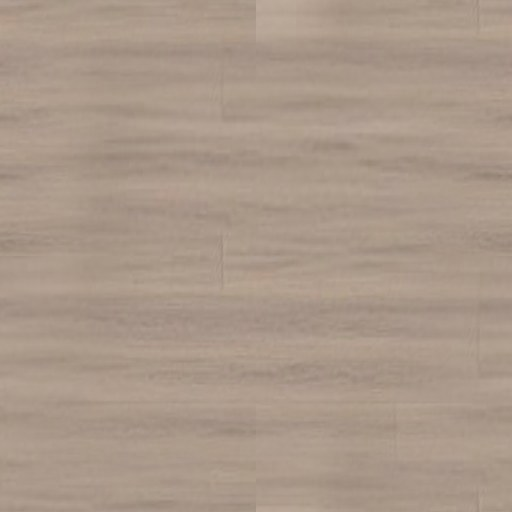
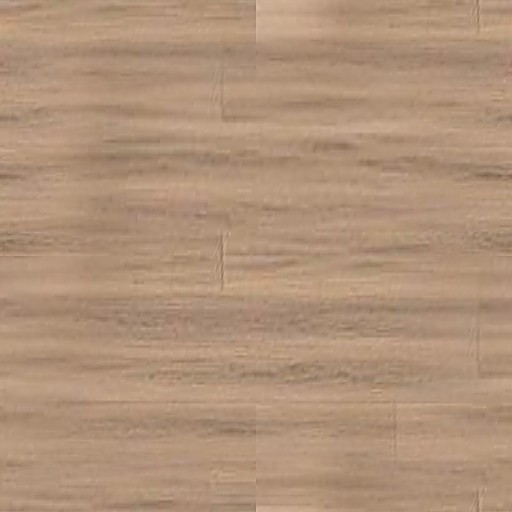
v14s12: interior unlit photo wallpaper+oak floor, no sun, hide wall/floor finish controls

diff --git a/v14/app.js b/v14/app.js
@@ -2,7 +2,7 @@ import * as THREE from 'three';
 import { OrbitControls } from 'three/addons/controls/OrbitControls.js';
 import { RoomEnvironment } from 'three/addons/environments/RoomEnvironment.js';
 import { RoundedBoxGeometry } from 'three/addons/geometries/RoundedBoxGeometry.js';
-import { CATALOG, RULES, ARTS } from './catalog.js?v=v14s11';
+import { CATALOG, RULES, ARTS } from './catalog.js?v=v14s12';
 
 const $ = id => document.getElementById(id);
 const MM = 0.001;
@@ -272,6 +272,7 @@ function setWallCol(m, c) { const col = new THREE.Color(c); m.color.copy(col).mu
 const NSTR = { brick: 7, stone: 7, slats: 6, woodp: 3, conc2: 2.2, beige: 2.6, koroed: 3, trav: 2 };
 const PHW = { brick: ['painted_brick', 1.04, 1.6], beige: ['beige_wall_001', 2.4, 1, 1.1], lime: ['white_plaster_02', 2.2, 1] };
 function wallMat(sd) { const IN = S.interior != null, v = IN ? 'intp' : finVar(), ph = IN ? [sd ? 'int_side' : 'int_paper', 1.3, 0.3, 1.05] : PHW[v];
+  if (IN) { const m = new THREE.MeshBasicMaterial({ map: tex(ph[0] + '_diff', true, (1 / ph[1]).toFixed(4)), toneMapped: false }); m.userData = { flat: true }; return m; }
   if (ph) { const rp = (1 / ph[1]).toFixed(4), sunM = S.room.shP === 'sun', m = new THREE.MeshStandardMaterial({ map: tex(ph[0] + '_diff', true, rp), emissiveMap: tex(ph[0] + '_diff', true, rp), normalMap: tex(ph[0] + '_nor_gl', false, rp), normalScale: new THREE.Vector2(ph[2], ph[2]), roughnessMap: tex(ph[0] + '_rough', false, rp), roughness: 1, metalness: 0, envMapIntensity: 0.35, toneMapped: false });
     const gn = ph[3] || 1, lf = v === 'brick'; m.userData = lf ? { wall: true, kd: 0.52, ke: 0.52 } : { wall: true, kd: (sunM ? 0.6 : 0.66) * gn, ke: (sunM ? 0.36 : 0.38) * gn }; if (lf) m.roughness = 0.85; setWallCol(m, IN ? '#f2f9ff' : S.wall); return m; }
   const t = finishTex(v).clone(); t.needsUpdate = true; const k = FINK[v] || 0.9; t.repeat.set(1 / k, 1 / k); const n = normalTex(v, NSTR[v] || 1.4).clone(); n.needsUpdate = true; n.repeat.copy(t.repeat);
@@ -688,7 +689,7 @@ function buildRoom() {
   const floorM = ST ? new THREE.ShadowMaterial({ opacity: 0 }) : (fm0 => fm0.isMeshStandardMaterial ? new THREE.MeshLambertMaterial({ color: fm0.color, map: fm0.map, normalMap: fm0.normalMap, normalScale: fm0.normalScale, userData: { floor: true } }) : fm0)(floorMat()); // matte floor: no glare
   // floor laid from the corner: tiles and parquet at 45 deg, laminate along the main wall (real scale, see FLOORS)
   window.__IC = cl ? left : cr ? right : F.x0; window.__BC = F.x0 + backW / 2; const fc = cl ? left : cr ? right : F.x0, FD = FLOORS[S.floor] || FLOORS.oak, fRot = FD[4] ? Math.PI / 4 : 0;
-  const fl = new THREE.Mesh(new THREE.PlaneGeometry(60, 60), floorM); fl.rotation.set(-Math.PI / 2, 0, fRot); fl.position.set(fc, 0, 0); fl.receiveShadow = !ST; fl.userData.floorM = true; room.add(fl);
+  const fl = new THREE.Mesh(new THREE.PlaneGeometry(60, 60), floorM); fl.rotation.set(-Math.PI / 2, 0, fRot); fl.position.set(fc, 0, 0); fl.receiveShadow = !ST; fl.userData.floorM = true; room.add(fl); if (S.interior != null && !ST) { fl.material = new THREE.MeshBasicMaterial({ map: floorM.map, toneMapped: false }); const fs = new THREE.Mesh(fl.geometry, new THREE.ShadowMaterial({ opacity: 0.18 })); fs.rotation.copy(fl.rotation); fs.position.set(fc, 0.0008, 0); fs.receiveShadow = true; room.add(fs); }
   const FJ = FLOORS[S.floor] && FLOORS[S.floor][3];
   if (!ST && FJ) { const jt = jointTex(S.floor).clone(); jt.needsUpdate = true; jt.repeat.set(60 / FJ[0], 60 / FJ[1]); const j = new THREE.Mesh(new THREE.PlaneGeometry(60, 60), new THREE.MeshBasicMaterial({ map: jt, transparent: true, depthWrite: false, polygonOffset: true, polygonOffsetFactor: -1, polygonOffsetUnits: -1 })); j.rotation.set(-Math.PI / 2, 0, fRot); j.position.set(fc, 0.0005, 0); room.add(j); }
   const ops = ST ? [] : openingsList(F, CH), WH = CH + 0.03, bk = new THREE.Group(); room.add(bk);
@@ -1165,7 +1166,7 @@ renderer.setAnimationLoop(() => { aspectGuard(); if (orb.on) applyCam(); else { 
 
 // ---------- interiors (v14): room photos; corner = photo point (cx, fy) in 0..1 ----------
 function setInterior(i) { const R = S.room; if (i == null) { if (S.interior != null) { const P = S.__intPrev || {}; R.shP = P.shP; S.preset = P.preset; delete S.__intPrev; S.interior = null; } return; }
-  if (S.interior == null) S.__intPrev = { shP: R.shP, preset: S.preset }; S.interior = i; S.studio = false; S.studioL = false; R.shP = 'sun'; S.preset = 'warm'; if (photo) $('photoOff').onclick(); setBg(); rebuild(); }
+  if (S.interior == null) S.__intPrev = { shP: R.shP, preset: S.preset }; S.interior = i; S.studio = false; S.studioL = false; R.shP = 'soft'; S.preset = 'neutral'; if (photo) $('photoOff').onclick(); setBg(); rebuild(); }
 // ---------- photo ----------
 let photo = null, photoImg = null;
 $('photo').onchange = e => {
@@ -1890,7 +1891,7 @@ const drawWallPick = colorPicker($('wallPick'), () => S.wall, liveWall, TONES);
 const BGT = ['#ffffff', '#f6f4f0', '#efece7', '#e9e6e0', '#e4e7ea', '#ddd8cf', '#d4d9d2', '#cfd6de', '#e8ded3', '#c9c6c0', '#8f8b86', '#2b2b2b'];
 const drawBgPick = colorPicker($('bgPick'), () => S.bg || '#e2ded7', (c, fin) => { S.bg = c; setBg(); if (fin) { localStorage.setItem('gs14_auto', JSON.stringify(S)); pushHist(); } }, BGT);
 function renderDeco() {
-  const st = !!S.studio, R = S.room; $('dRoom').classList.toggle('hide', st); $('dStudio').classList.toggle('hide', !st);
+  const st = !!S.studio, R = S.room; $('dRoom').classList.toggle('hide', st); $('dWallF').classList.toggle('hide', S.interior != null); $('dStudio').classList.toggle('hide', !st);
   document.querySelectorAll('[data-dt]').forEach(b => b.classList.toggle('on', b.dataset.dt === 'interior' ? S.interior != null : S.interior == null && (b.dataset.dt === 'studio') === (st || !!S.studioL)));
   const fin = S.wallFin || 'paint', fv = finVar();
   $('finVars').style.gridTemplateColumns = `repeat(${evenCols(FINS[fin].length)},1fr)`; $('finBtns').innerHTML = [['paint', 'Краска'], ['plaster', 'Штукатурка'], ['relief', 'Рельеф'], ['paper', 'Обои']].map(([k, t]) => `<button data-fin="${k}" class="${fin === k ? 'on' : ''}">${t}</button>`).join('');

diff --git a/v14/index.html b/v14/index.html
@@ -2,7 +2,7 @@
 <meta http-equiv="Cache-Control" content="no-cache, no-store, must-revalidate"><meta http-equiv="Pragma" content="no-cache"><meta http-equiv="Expires" content="0"><meta charset="utf-8"><meta name="viewport" content="width=device-width,initial-scale=1,maximum-scale=1">
 <link rel="icon" href="data:,"><title>Конструктор гардеробной ТИТАН GS</title>
 <link rel="preconnect" href="https://fonts.googleapis.com"><link rel="preconnect" href="https://fonts.gstatic.com" crossorigin><link href="https://fonts.googleapis.com/css2?family=Inter:wght@400;500;700;800&family=Manrope:wght@400;500;600;700;800&family=Montserrat:wght@400;500;700;800&family=Playfair+Display:wght@500;600;700&display=swap" rel="stylesheet">
-<link rel="stylesheet" href="style.css?v=v14s11">
+<link rel="stylesheet" href="style.css?v=v14s12">
 <script type="importmap">{"imports":{"three":"https://cdn.jsdelivr.net/npm/three@0.160.0/build/three.module.js","three/addons/":"https://cdn.jsdelivr.net/npm/three@0.160.0/examples/jsm/"}}</script>
 </head><body>
 <div id="topbar"><div class="seg" id="szV"></div><button id="mirrorBtn" title="Отзеркалить всю конструкцию">⇄<span class="mtx"> Зеркально</span></button><button id="fxBtn" class="snd" title="Эффект" aria-label="Эффект"><svg viewBox="0 0 24 24" fill="none" stroke="currentColor" stroke-width="1.7" stroke-linecap="round"><path d="M12 3v3M12 18v3M3 12h3M18 12h3M5.6 5.6l2.1 2.1M16.3 16.3l2.1 2.1M5.6 18.4l2.1-2.1M16.3 7.7l2.1-2.1"/><circle cx="12" cy="12" r="2.6"/></svg></button><button id="lensBtn" class="snd" title="Камера: Обычная" aria-label="Камера"><svg viewBox="0 0 24 24" fill="none" stroke="currentColor" stroke-width="1.7"><circle cx="12" cy="12" r="8"/><circle class="l2" cx="12" cy="12" r="4"/><path class="l3" d="M12 4v3M12 17v3M4 12h3M17 12h3"/></svg></button><button id="sndBtn" class="snd" title="Звук" aria-label="Звук"><svg viewBox="0 0 24 24" fill="none" stroke="currentColor" stroke-width="1.7" stroke-linecap="round" stroke-linejoin="round"><path d="M4 9.5h3.2L12 5.5v13l-4.8-4H4z"/><path class="w1" d="M15.5 9.2a4 4 0 0 1 0 5.6"/><path class="w2" d="M18.2 6.8a7.4 7.4 0 0 1 0 10.4"/><path class="mx" d="M16 9.5l5 5M21 9.5l-5 5"/></svg></button><button id="moreBtn" title="Сохранить, загрузить, ссылка, шаблоны, снимки">⋯</button>
@@ -50,9 +50,10 @@
 <div class="sub light"><h4>Свет и тени</h4><div class="szlab">Тень</div><div class="sz" id="shPBtns"></div><label>Свет из окна<select id="winL"><option value="off">Выкл</option><option value="wall">На стену</option><option value="floor">На пол</option><option value="both">Оба</option></select></label><div class="szlab">Блики на металле</div><div class="sz" id="glMBtns"></div></div>
 <div class="row2 hide"><label>Цвет системы<select id="metal"><option value="white">Белый металлик (RAL 9016)</option><option value="silver">Серебристый (RAL 9006)</option><option value="black">Черный (RAL 9005)</option></select></label><label>Цвет штанги<select id="rodC"><option value="chrome">Хром металлик</option><option value="white">Белая</option><option value="black">Черный</option></select></label></div>
 <div id="dRoom">
+<div id="dWallF">
 <div class="szlab">Цвет стен</div><div id="wallPick"></div><input type="color" id="wall" class="hide">
 <div class="szlab">Отделка стен</div><div class="sz" id="finBtns"></div><div class="tiles" id="finVars"></div><select id="wallFin" class="hide"><option value="paint">Краска</option><option value="plaster">Штукатурка</option><option value="paper">Обои</option></select>
-<div class="szlab">Пол</div><div class="tiles fl" id="floorBtns"></div><select id="floor" class="hide"><option value="oak">Паркет</option><option value="lam">Светлый ламинат</option><option value="lamD">Темный ламинат</option><option value="conc">Керамогранит бетон</option><option value="marble">Керамогранит мрамор</option><option value="carpet">Ковролин</option></select>
+<div class="szlab">Пол</div><div class="tiles fl" id="floorBtns"></div><select id="floor" class="hide"><option value="oak">Паркет</option><option value="lam">Светлый ламинат</option><option value="lamD">Темный ламинат</option><option value="conc">Керамогранит бетон</option><option value="marble">Керамогранит мрамор</option><option value="carpet">Ковролин</option></select></div>
 <div class="row2 skp"><label class="chk"><input type="checkbox" id="skirtT"> Плинтус на полу</label><label class="clr">Цвет<input type="color" id="skirtC"></label></div>
 <div class="row2 skp"><label class="chk"><input type="checkbox" id="cornT"> Плинтус на потолке</label><label class="clr">Цвет<input type="color" id="cornC"></label></div>
 <div class="row2"><label class="chk"><input type="checkbox" id="ceilT"> Потолок</label><label>Высота потолка: <b id="ceilV"></b> см<input type="range" id="ceilH" min="220" max="400" step="1"></label></div><div class="hide"><b id="ceilV2"></b><input type="range" id="ceilH2" min="230" max="400" step="1"></div>
@@ -107,5 +108,5 @@
 </div>
 <p class="foot">Размеры элементов взяты из каталога ТИТАН GS 2024. Визуализация ориентировочная.</p>
 </div></div>
-<script type="module" src="app.js?v=v14s11"></script>
+<script type="module" src="app.js?v=v14s12"></script>
 </body></html>
